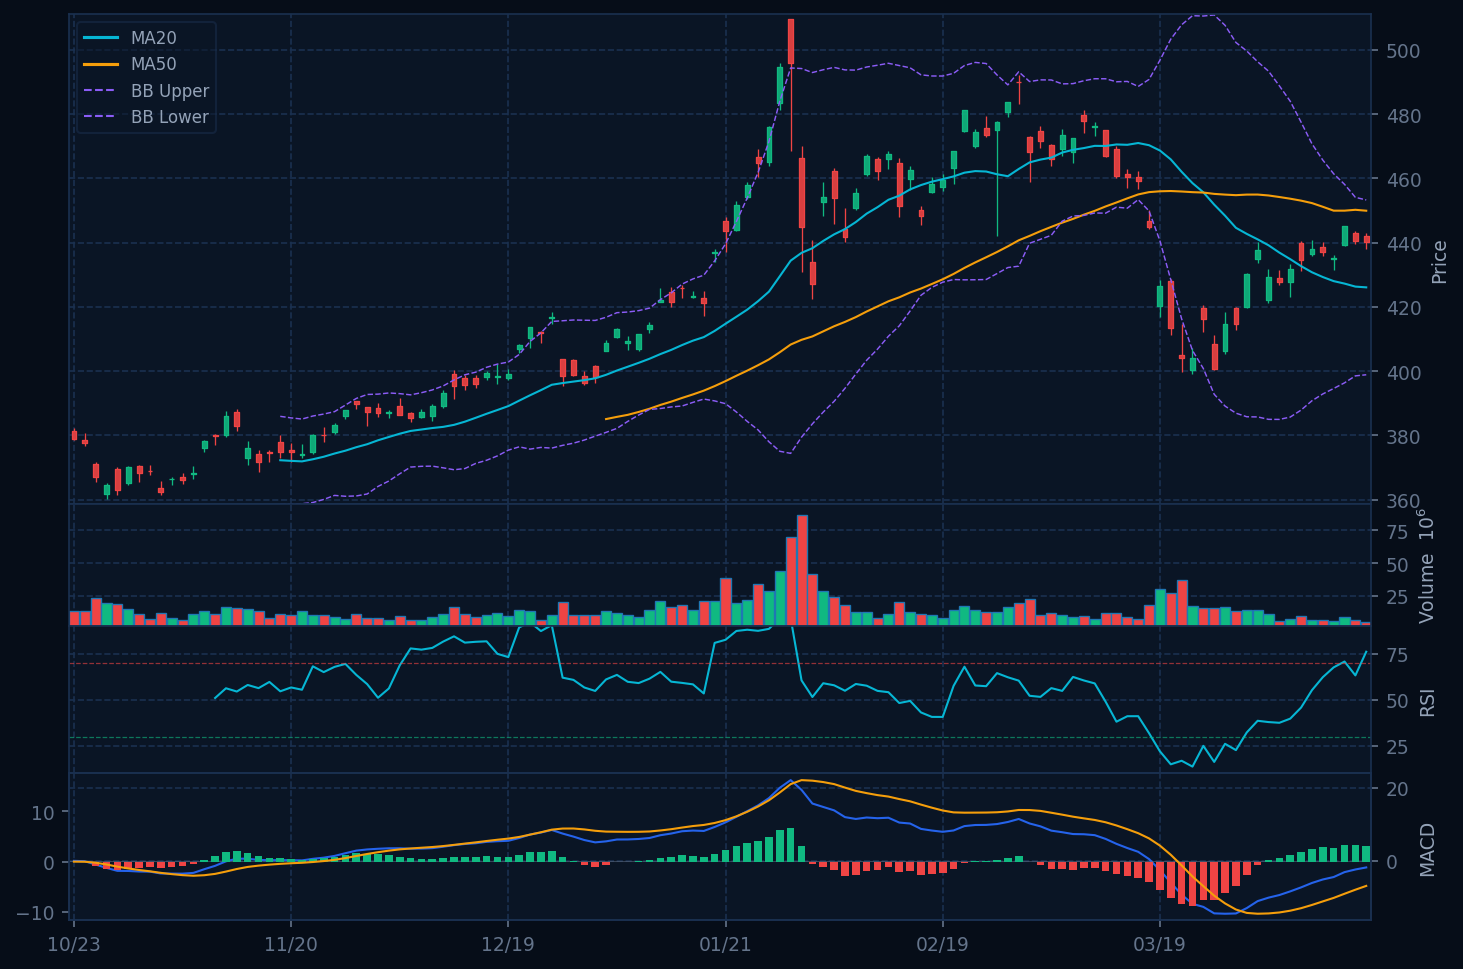
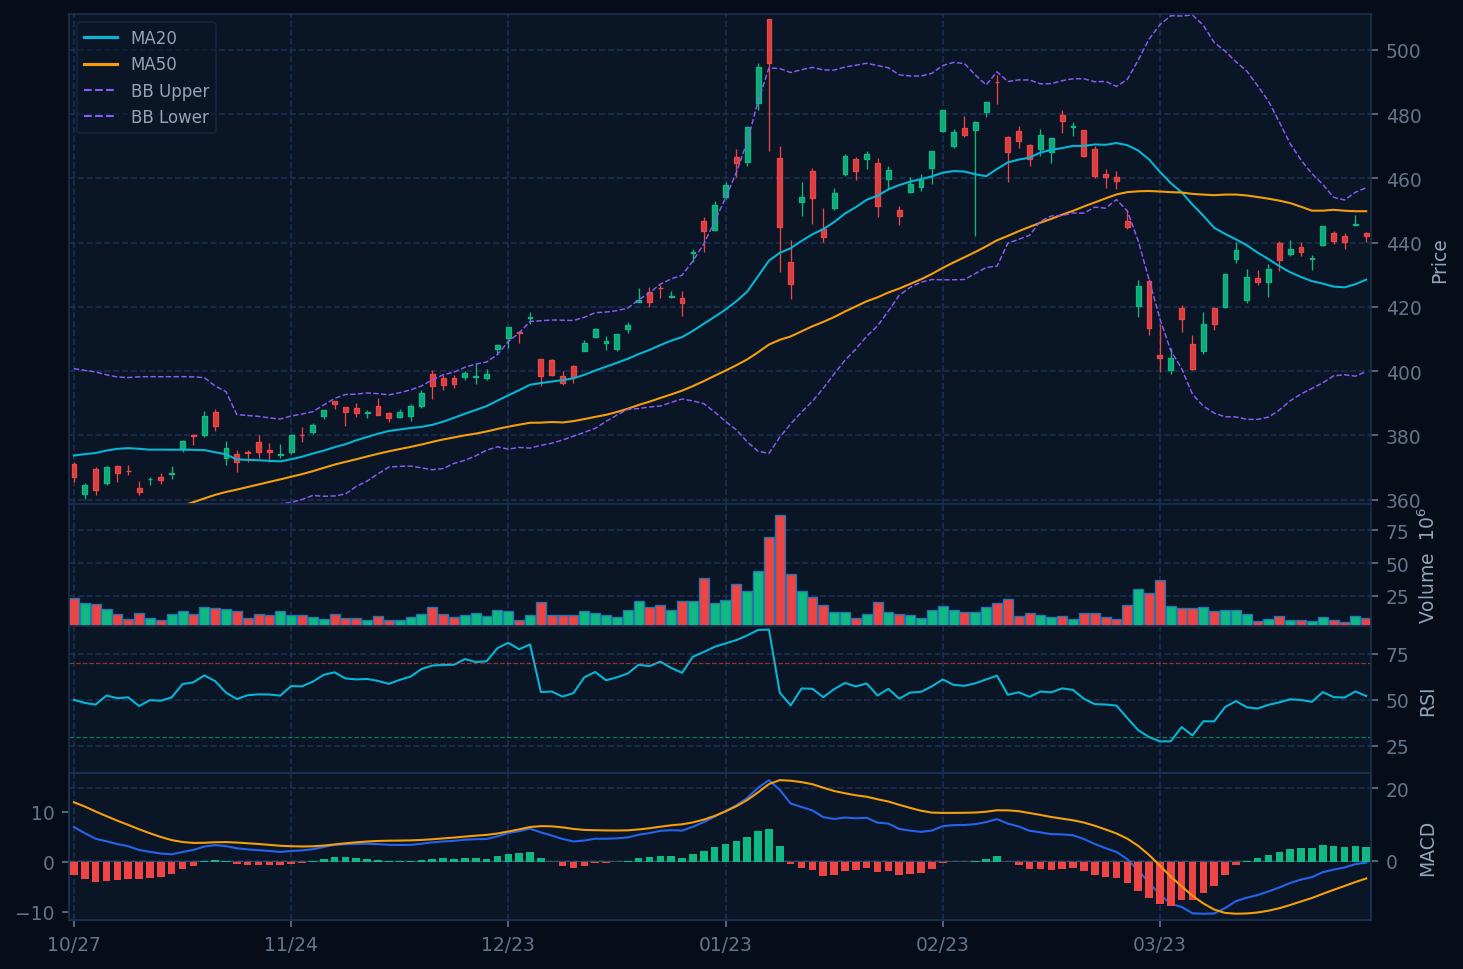
fix: 차트 RSI(Wilder) 통일 + 상세 페이지 과매도/과매수 라벨 스왑
- chart_generator._calc_rsi: SMA → Wilder's EMA (fetch_market_data와 동일 공식)
- 지표 계산을 df.tail(days) 이전으로 이동 → 워밍업 왜곡 제거
  (EMA 계열 RSI/MACD가 표시 구간 앞 데이터까지 누적되어 정확)
- 검증: GLD RSI 차트 라인과 대시보드 카드 값(52.1) 일치
- detail_template.html: RSI≥70 라벨이 '과매도', RSI≤30이 '과매수'로 뒤바뀌어 있던 버그 수정
  (색상/숫자/시그널 판정은 영향 없음, 텍스트 라벨만 교체)
- 재생성된 GLD 차트 포함

diff --git a/templates/detail_template.html b/templates/detail_template.html
@@ -240,7 +240,7 @@
     <div class="metric-card">
       <div class="label">RSI (14)</div>
       <div class="value {{ 'v-red' if rsi is not none and rsi >= 70 else 'v-green' if rsi is not none and rsi <= 30 else 'v-orange' if rsi is not none and rsi >= 60 else 'v-text' }}">{{ rsi|f1 if rsi is not none else 'N/A' }}</div>
-      <div class="desc">{{ '&#44284;&#47588;&#46020;' if rsi is not none and rsi >= 70 else '&#44284;&#47588;&#49688;' if rsi is not none and rsi <= 30 else '&#51473;&#47549;' }}</div>
+      <div class="desc">{{ '&#44284;&#47588;&#49688;' if rsi is not none and rsi >= 70 else '&#44284;&#47588;&#46020;' if rsi is not none and rsi <= 30 else '&#51473;&#47549;' }}</div>
     </div>
     <div class="metric-card">
       <div class="label">MACD Hist</div>

diff --git a/chart_generator.py b/chart_generator.py
@@ -17,10 +17,13 @@ matplotlib.use("Agg")
 
 
 def _calc_rsi(close: pd.Series, period: int = 14) -> pd.Series:
+    """Wilder's RSI — fetch_market_data.calc_rsi 와 동일 공식 (EMA com=period-1)."""
     delta = close.diff()
-    gain = delta.where(delta > 0, 0.0).rolling(period).mean()
-    loss = (-delta.where(delta < 0, 0.0)).rolling(period).mean()
-    rs = gain / loss
+    gain = delta.clip(lower=0)
+    loss = -delta.clip(upper=0)
+    avg_gain = gain.ewm(com=period - 1, min_periods=period).mean()
+    avg_loss = loss.ewm(com=period - 1, min_periods=period).mean()
+    rs = avg_gain / avg_loss
     return 100 - (100 / (1 + rs))
 
 
@@ -52,24 +55,37 @@ def generate_chart(symbol: str, output_path: str, days: int = 120, theme: str = 
         if df is None or df.empty or len(df) < 50:
             return False
 
-        # 최근 N일만 사용
-        df = df.tail(days).copy()
+        # === 지표는 1년 풀 히스토리에서 계산 후 tail ===
+        # (tail 후 계산하면 워밍업이 창 안에서 시작돼 값이 왜곡됨.
+        #  특히 Wilder/EMA 계열 RSI·MACD는 표시 구간 앞 데이터까지 누적돼야 정확)
+        close_full = df["Close"]
 
         # 이동평균
-        ma20 = df["Close"].rolling(20).mean()
-        ma50 = df["Close"].rolling(50).mean()
+        ma20_full = close_full.rolling(20).mean()
+        ma50_full = close_full.rolling(50).mean()
 
         # 볼린저 밴드
-        bb_mid = df["Close"].rolling(20).mean()
-        bb_std = df["Close"].rolling(20).std()
-        bb_upper = bb_mid + 2 * bb_std
-        bb_lower = bb_mid - 2 * bb_std
+        bb_mid_full = close_full.rolling(20).mean()
+        bb_std_full = close_full.rolling(20).std()
+        bb_upper_full = bb_mid_full + 2 * bb_std_full
+        bb_lower_full = bb_mid_full - 2 * bb_std_full
 
-        # RSI
-        rsi = _calc_rsi(df["Close"])
+        # RSI (Wilder's)
+        rsi_full = _calc_rsi(close_full)
 
         # MACD
-        macd_line, signal_line, macd_hist = _calc_macd(df["Close"])
+        macd_line_full, signal_line_full, macd_hist_full = _calc_macd(close_full)
+
+        # 최근 N일만 사용 (df + 모든 지표 동일 구간으로 슬라이스)
+        df = df.tail(days).copy()
+        ma20 = ma20_full.tail(days)
+        ma50 = ma50_full.tail(days)
+        bb_upper = bb_upper_full.tail(days)
+        bb_lower = bb_lower_full.tail(days)
+        rsi = rsi_full.tail(days)
+        macd_line = macd_line_full.tail(days)
+        signal_line = signal_line_full.tail(days)
+        macd_hist = macd_hist_full.tail(days)
 
         # 테마별 스타일
         if theme == "light":
